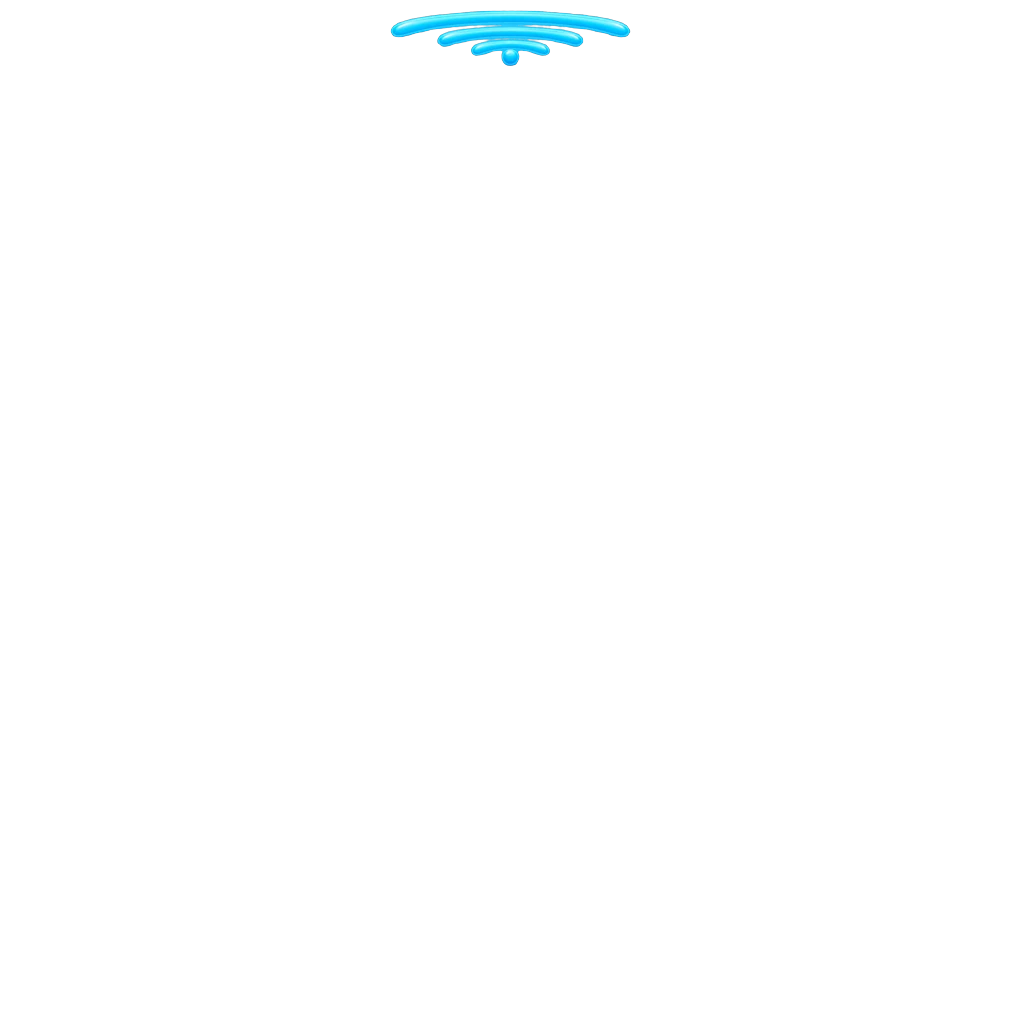
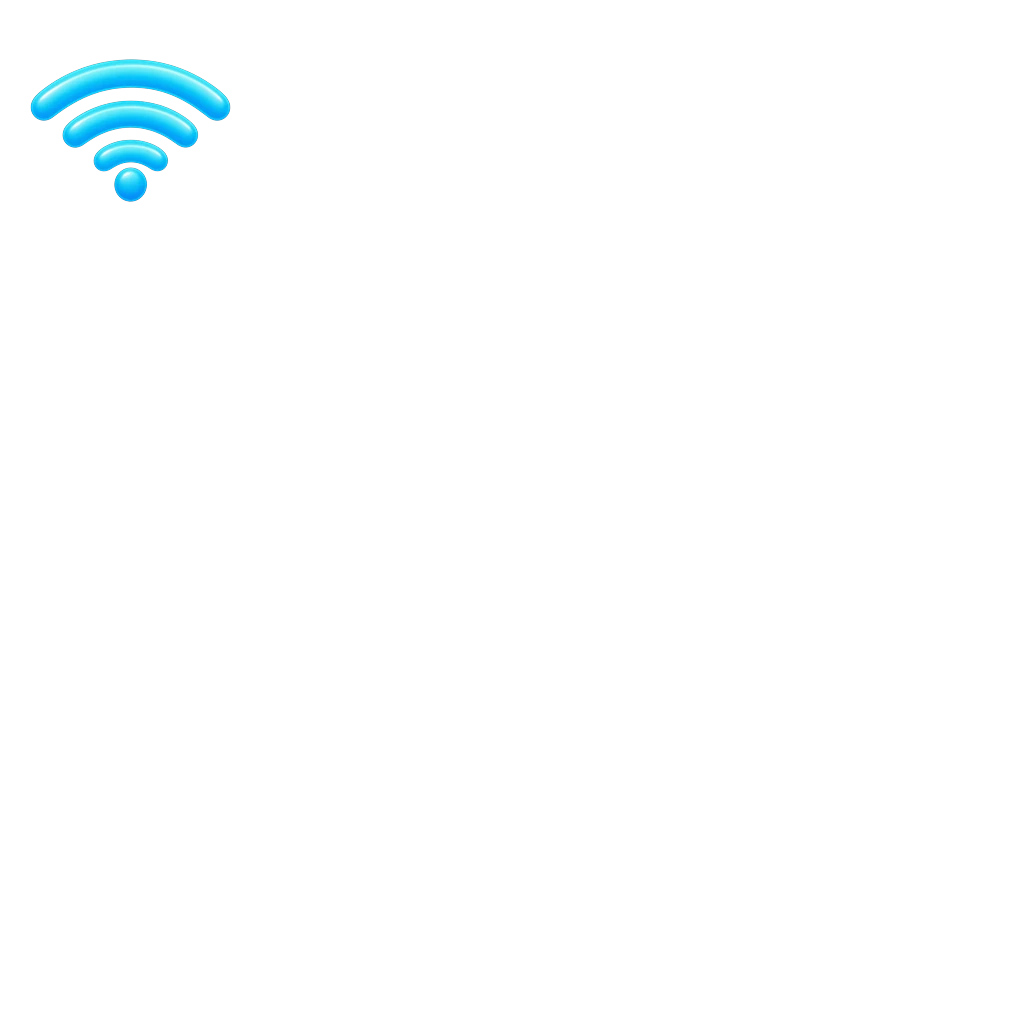
꾸미기: OPEN 간판·와이파이 후광을 다시 받아 머리 왼쪽 위에 띄운다
처음 받은 그림은 가로:세로 6:1, 4:1로 납작했고 머리 위 100px 에 넣어
앱 크기에서 10dp 남짓으로 작고 모자에 가렸다. 비율을 정한 v2 로 바꾸고
삿갓 챙 밖 왼쪽 위 빈자리에 둔다.

Changed region(s): [[0.0312, 0.0312, 0.25, 0.2188], [0.375, 0.0, 0.625, 0.0625]]

diff --git a/tools/build_avatar_assets.py b/tools/build_avatar_assets.py
@@ -152,8 +152,8 @@ OVERLAYS = {
 #   로봇청소기 폭 320px, 윗면 가운데를 y=925에 두고 아래 끝을 y=1020 안에 둔다
 #   킥보드    손잡이 폭 340px 은 끝이 허리 옆에 점처럼만 보여 킥보드로 안 읽혔다.
 #             440px 로 키워 손잡이가 가슴 높이에서 몸 양옆으로 나오게 한다. 발판은 y=925
-#   OPEN      폭 300px·높이 52px로 줄여 비니 위 y=14~66에 전부 보이게 둔다
-#   와이파이  폭 240px로 줄여 비니 위 y=10~66에 세 줄과 점이 모두 남게 둔다
+#   OPEN      폭 220px·높이 110px, 중심 (130, 120)으로 옮겨 모든 모자의 왼쪽에 보이게 한다
+#   와이파이  폭 200px·높이 143px, 중심 (130, 130)으로 옮겨 세 줄과 점이 눌리지 않게 한다
 #   로딩      바깥 지름 666px로 맞춰 비니 둘레에 12점이 드러나게 한다
 #   LP        바깥 지름 666px, 중심을 눈 가운데에 두어 가장자리 홈과 스티커가 보이게 한다
 #   디스코볼  머리 위 100px 에 넣으면 너무 작고 모자에 가렸다. 체인 위 끝을 캔버스
@@ -199,8 +199,8 @@ PLACED = {
     "seat_bathstool": ("body", 260 / 922, (627, 504), (512, 925), ()),
     "seat_robovac": ("body", 320 / 899, (626.5, 602), (512, 925), ()),
     "seat_kickboard": ("body", 440 / 780, (627, 970), (512, 925), ()),
-    "halo_open": ("head", 300 / 1000, (627, 713), (510, 66), ()),
-    "halo_wifi": ("head", 240 / 1000, (627, 743), (510, 66), ()),
+    "halo_open": ("head", 220 / 1000, (627, 627), (130, 120), ()),
+    "halo_wifi": ("head", 200 / 1000, (627, 627), (130, 130), ()),
     "halo_loading": ("head", 666 / 890, (627, 627), (510, 356), ()),
     "halo_lp": ("head", 666 / 1000, (627, 627), (510, 356), ()),
     "halo_discoball": ("head", 190 / 586, (626.5, 334), (860, 4), ()),
